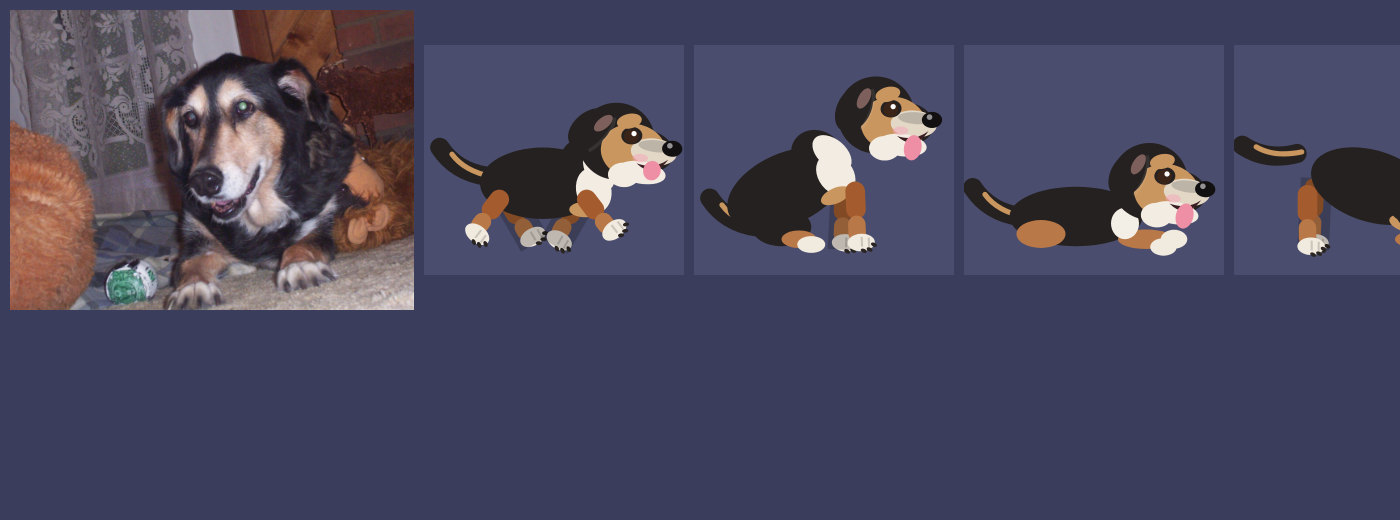
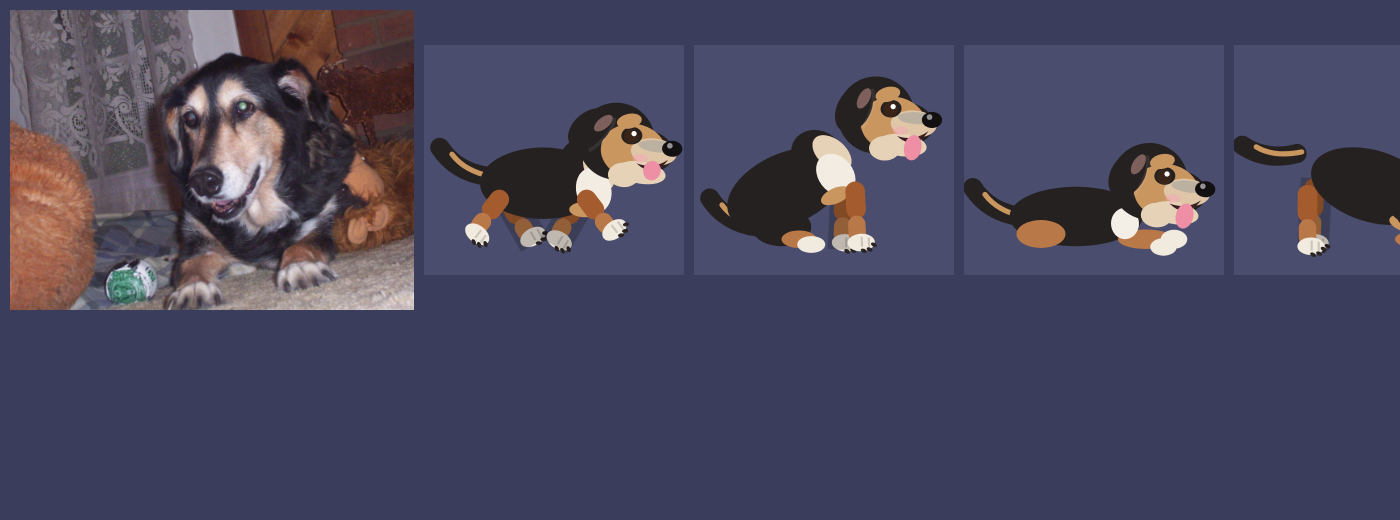
Very light brown instead of white on her face
The chin, muzzle and throat are now a very light brown; the chest bib
stays cream.

Claude-Session: https://claude.ai/code/session_01FXSWFpxxSrXQzzuV76LA8x

Changed region(s): [[0.5836, 0.2154, 0.6757, 0.3077], [0.43, 0.2769, 0.4914, 0.3692], [0.7986, 0.3385, 0.86, 0.4308]]

diff --git a/assets/js/night-garden.js b/assets/js/night-garden.js
@@ -647,7 +647,8 @@
       ctx.fillStyle = BLACK; ctx.beginPath(); ctx.ellipse(0, BY, BRX, BRY, 0, 0, Math.PI * 2); ctx.fill();
       ctx.beginPath(); ctx.ellipse(12, BY - 5, 7, 8, -0.5, 0, Math.PI * 2); ctx.fill(); // neck
       if (L.chest === 'white') {
-        ctx.fillStyle = '#F2ECE3'; ctx.beginPath(); ctx.ellipse(16, BY - 4, 4, 6.5, -0.45, 0, Math.PI * 2); ctx.fill();   // throat
+        ctx.fillStyle = '#E6D2B6'; ctx.beginPath(); ctx.ellipse(16, BY - 4, 4, 6.5, -0.45, 0, Math.PI * 2); ctx.fill();   // throat, very light brown
+        ctx.fillStyle = '#F2ECE3';
         ctx.beginPath(); ctx.ellipse(14.5, BY + 2, 5, 6.5, -0.25, 0, Math.PI * 2); ctx.fill();                              // chest
         ctx.fillStyle = TAN; ctx.beginPath(); ctx.ellipse(12, BY + 7.5, 4.5, 2.2, 0, 0, Math.PI * 2); ctx.fill();            // tan below
       }
@@ -672,9 +673,9 @@
     ctx.beginPath(); ctx.ellipse(8, 2.5, 8.5, 6.2, 0.08, 0, Math.PI * 2); ctx.fill(); // snout
     if (L.muzzle === 'cream') {
       ctx.fillStyle = TAN; ctx.beginPath(); ctx.ellipse(5, 2.6, 9.4, 7.8, 0.12, 0, Math.PI * 2); ctx.fill();            // soft fawn fills the lower face
-      ctx.fillStyle = '#E3D7C6'; ctx.beginPath(); ctx.ellipse(10.8, 2.6, 6.6, 3.9, 0.06, 0, Math.PI * 2); ctx.fill();   // pale muzzle
+      ctx.fillStyle = '#DEC6A6'; ctx.beginPath(); ctx.ellipse(10.8, 2.6, 6.6, 3.9, 0.06, 0, Math.PI * 2); ctx.fill();   // very light brown muzzle
       ctx.fillStyle = 'rgba(176,168,158,0.75)'; ctx.beginPath(); ctx.ellipse(11.5, 0.9, 5.2, 1.7, 0.06, 0, Math.PI * 2); ctx.fill(); // a little grey on top
-      ctx.fillStyle = '#F2ECE3'; ctx.beginPath(); ctx.ellipse(7.5, 8.6, 7, 3.2, 0.12, 0, Math.PI * 2); ctx.fill();       // white chin
+      ctx.fillStyle = '#E6D2B6'; ctx.beginPath(); ctx.ellipse(7.5, 8.6, 7, 3.2, 0.12, 0, Math.PI * 2); ctx.fill();       // very light brown chin
       ctx.beginPath(); ctx.ellipse(2.5, 9.5, 4.5, 3.5, 0, 0, Math.PI * 2); ctx.fill();                                   // running into the throat
       ctx.fillStyle = BLACK; ctx.beginPath(); ctx.ellipse(4.3, -1.8, 3, 2.5, -0.1, 0, Math.PI * 2); ctx.fill();           // dark rim around the eye
       ctx.fillStyle = TAN; ctx.beginPath(); ctx.ellipse(3.4, -5.9, 3.6, 2.1, -0.25, 0, Math.PI * 2); ctx.fill();          // tan brow above it
